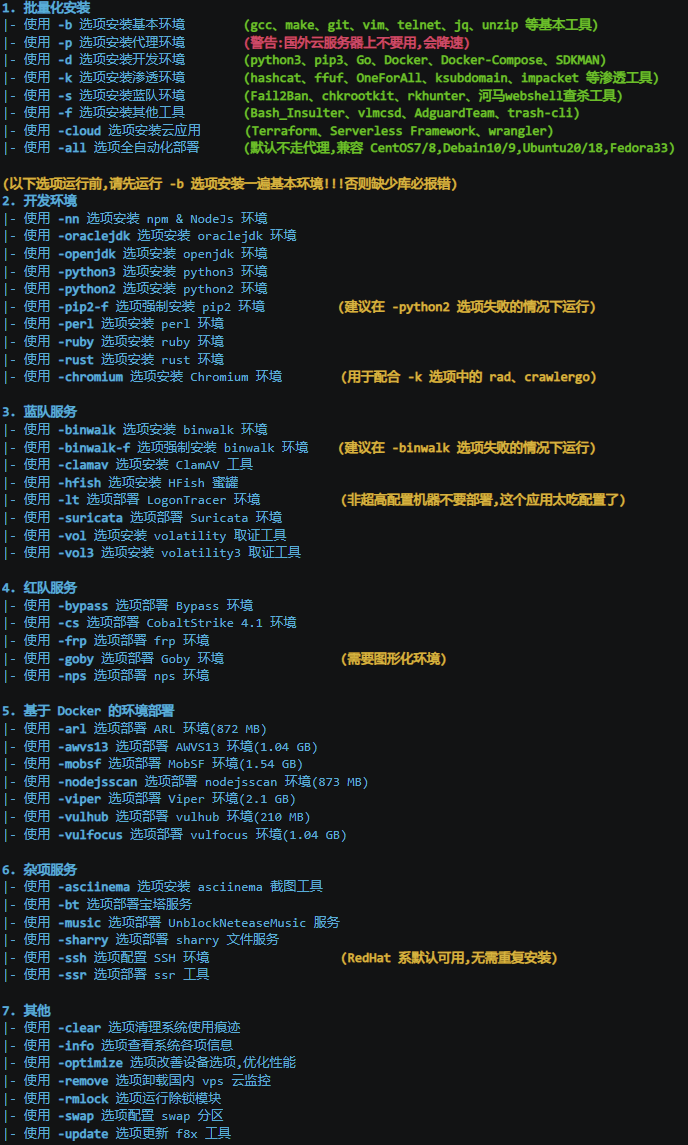
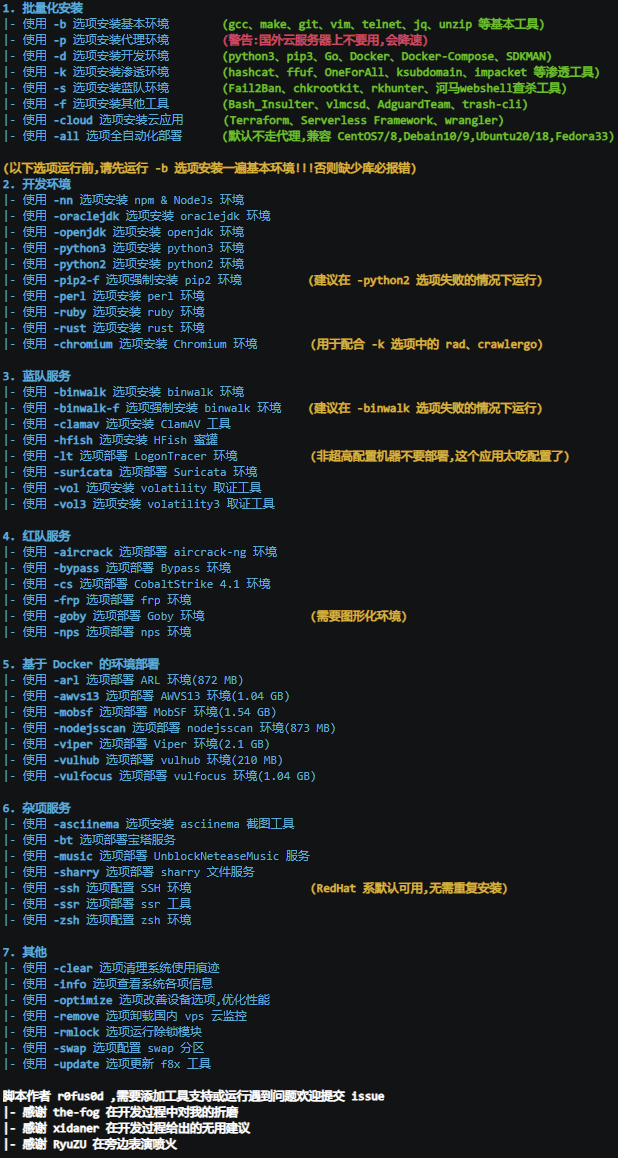
update

diff --git a/README.md b/README.md
@@ -82,6 +82,7 @@ f8x 基本上不需要任何依赖,或者说它就是为了帮助你安装各种
 - 使用 -vol3 选项安装 volatility3 取证工具
 
 **4. 红队服务**
+- 使用 -aircrack 选项部署 aircrack-ng 环境
 - 使用 -bypass 选项部署 Bypass 环境
 - 使用 -cs 选项部署 CobaltStrike 环境
 - 使用 -frp 选项部署 frp 环境
@@ -104,6 +105,7 @@ f8x 基本上不需要任何依赖,或者说它就是为了帮助你安装各种
 - 使用 -sharry 选项部署 sharry 文件服务
 - 使用 -ssh 选项配置 SSH 环境                  (RedHat 系默认可用,无需重复安装)
 - 使用 -ssr 选项部署 ssr 工具
+- 使用 -zsh 选项部署 zsh 工具
 
 **7. 其他**
 - 使用 -clear 选项清理系统使用痕迹

diff --git a/CHANGELOG.md b/CHANGELOG.md
@@ -8,7 +8,7 @@
 * 添加 -zsh 选项
 * -k 选项添加 commix、exploitdb、tplmap、routersploit、bettercap、mitmproxy、naabu、proxify、pypykatz、CrackMapExec
 * -s 选项添加 BruteShark
-* 更新所有安装软件的版本
+* 更新所有软件安装的版本
 * 体积缩减 50%
 
 ### [1.4.7] - 2021-03-21
